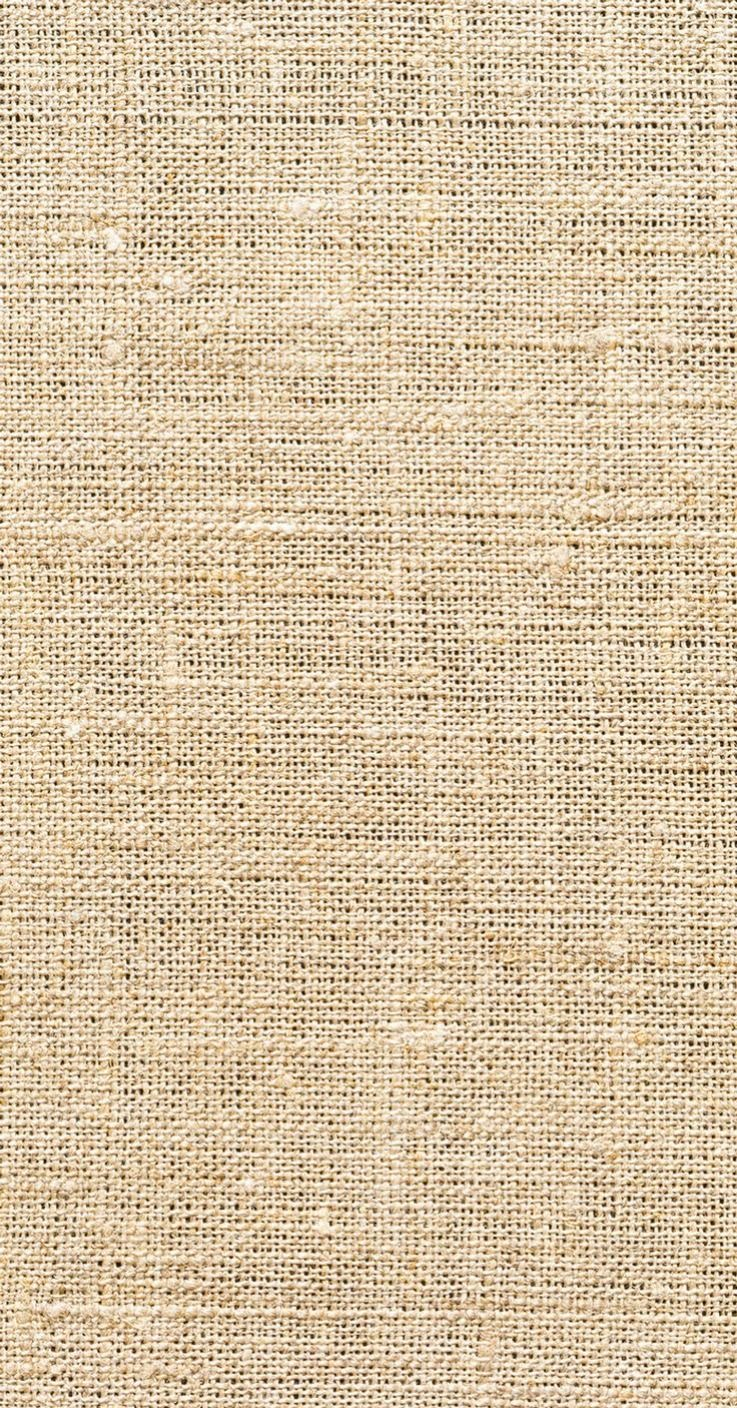
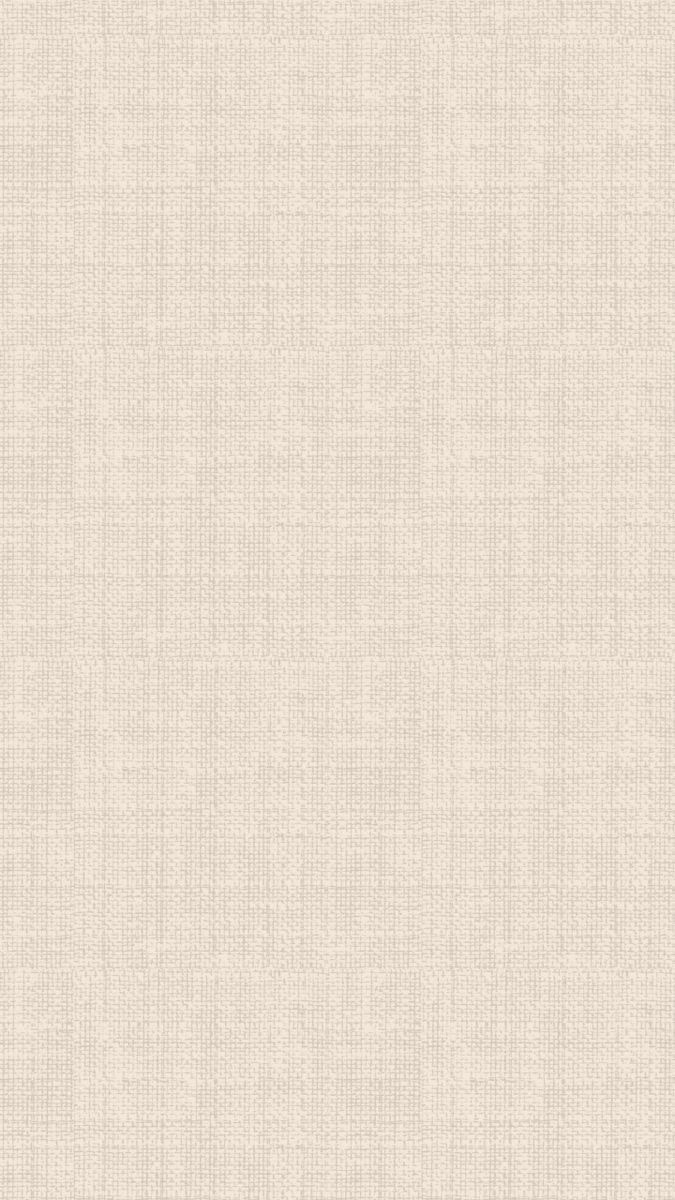
fix: bean en Perfil — skip prompt 'agregar recuerdo' si ya hay uno + update panama-bg
1. Perfil ColeccionBarrio handleBeanTap:
   El prompt '¿Agregar recuerdo?' aparecía cada vez que volvías a
   marcar visitado, incluso si ya tenías un recuerdo guardado de
   antes (el recuerdo no se borra al desmarcar). Ahora chequea
   getRecuerdo(cafe.id) — si ya existe, solo marca sin prompt.

2. public/panama-bg: actualizado al archivo nuevo que subiste (JPG
   210KB → 97KB en WebP, q72 resize 900px). Reemplaza el bg viejo
   que tomaba la página de Perfil.

diff --git a/src/pages/Perfil.jsx b/src/pages/Perfil.jsx
@@ -24,17 +24,18 @@ function ColeccionBarrio({ barrio }) {
   const visitados = cafesBarrio.filter((c) => visitas.includes(c.id)).length
 
   // Tap en el bean del slot:
-  //  - si no estaba visitado → marca + abre prompt 'agregar recuerdo'
   //  - si estaba visitado → desmarca directo, sin prompt
+  //  - si no estaba visitado y NO hay recuerdo → marca + abre prompt 'agregar recuerdo'
+  //  - si no estaba visitado y SÍ hay recuerdo guardado → solo marca, sin prompt
   async function handleBeanTap(cafe, visitado, e) {
     e.preventDefault()
     e.stopPropagation()
     if (visitado) {
-      // Desmarcar — sin prompt
       await toggleVisita(cafe.id)
-    } else {
-      // Marcar + abrir prompt
-      await toggleVisita(cafe.id)
+      return
+    }
+    await toggleVisita(cafe.id)
+    if (!getRecuerdo(cafe.id)) {
       setPromptCafe(cafe)
     }
   }